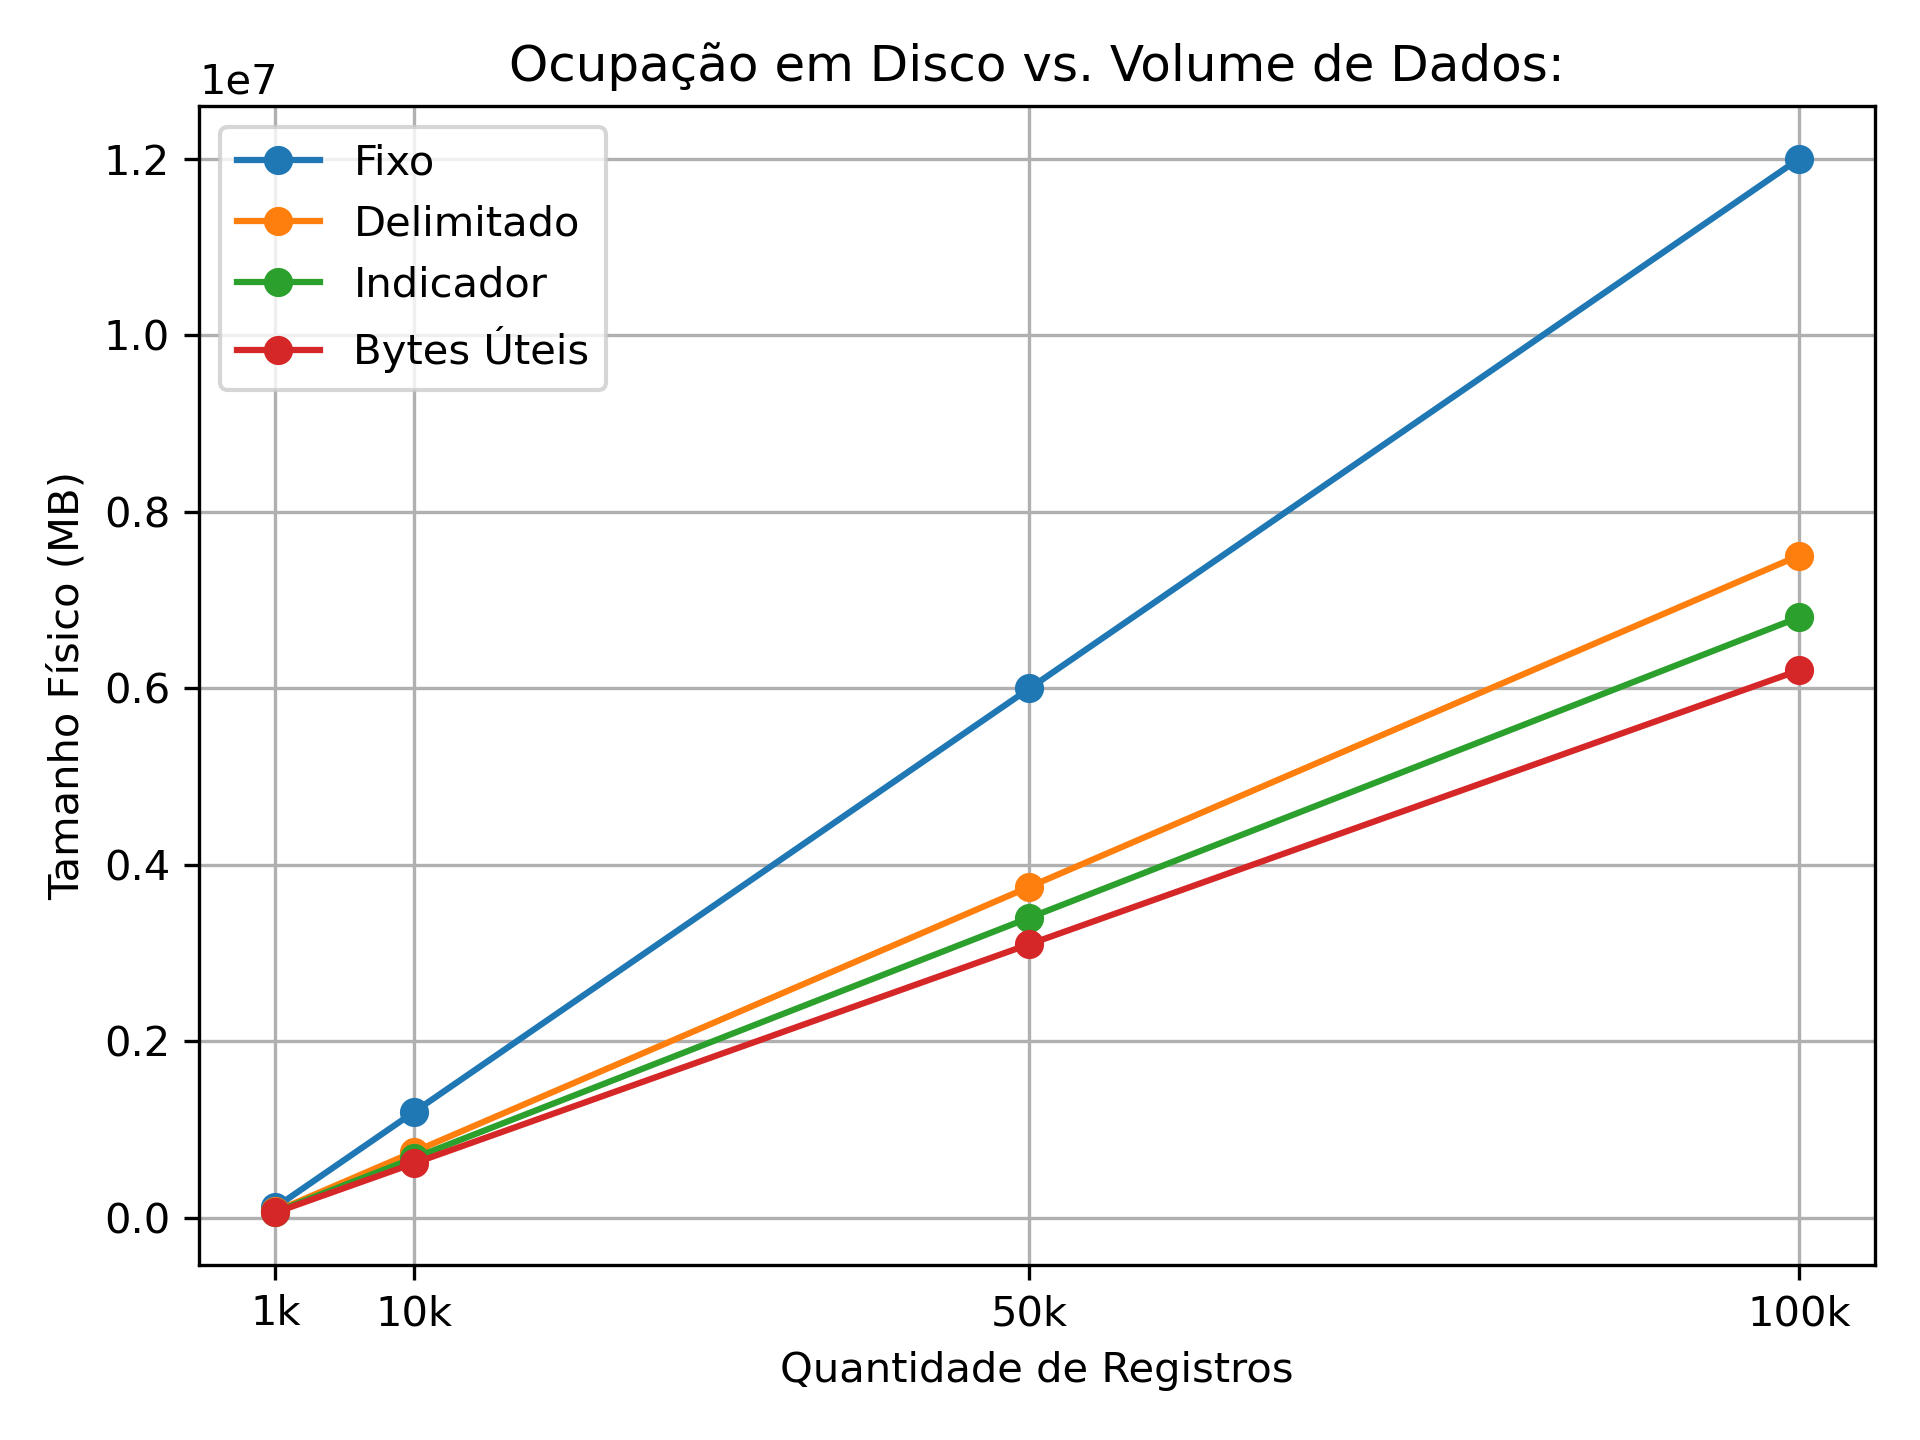
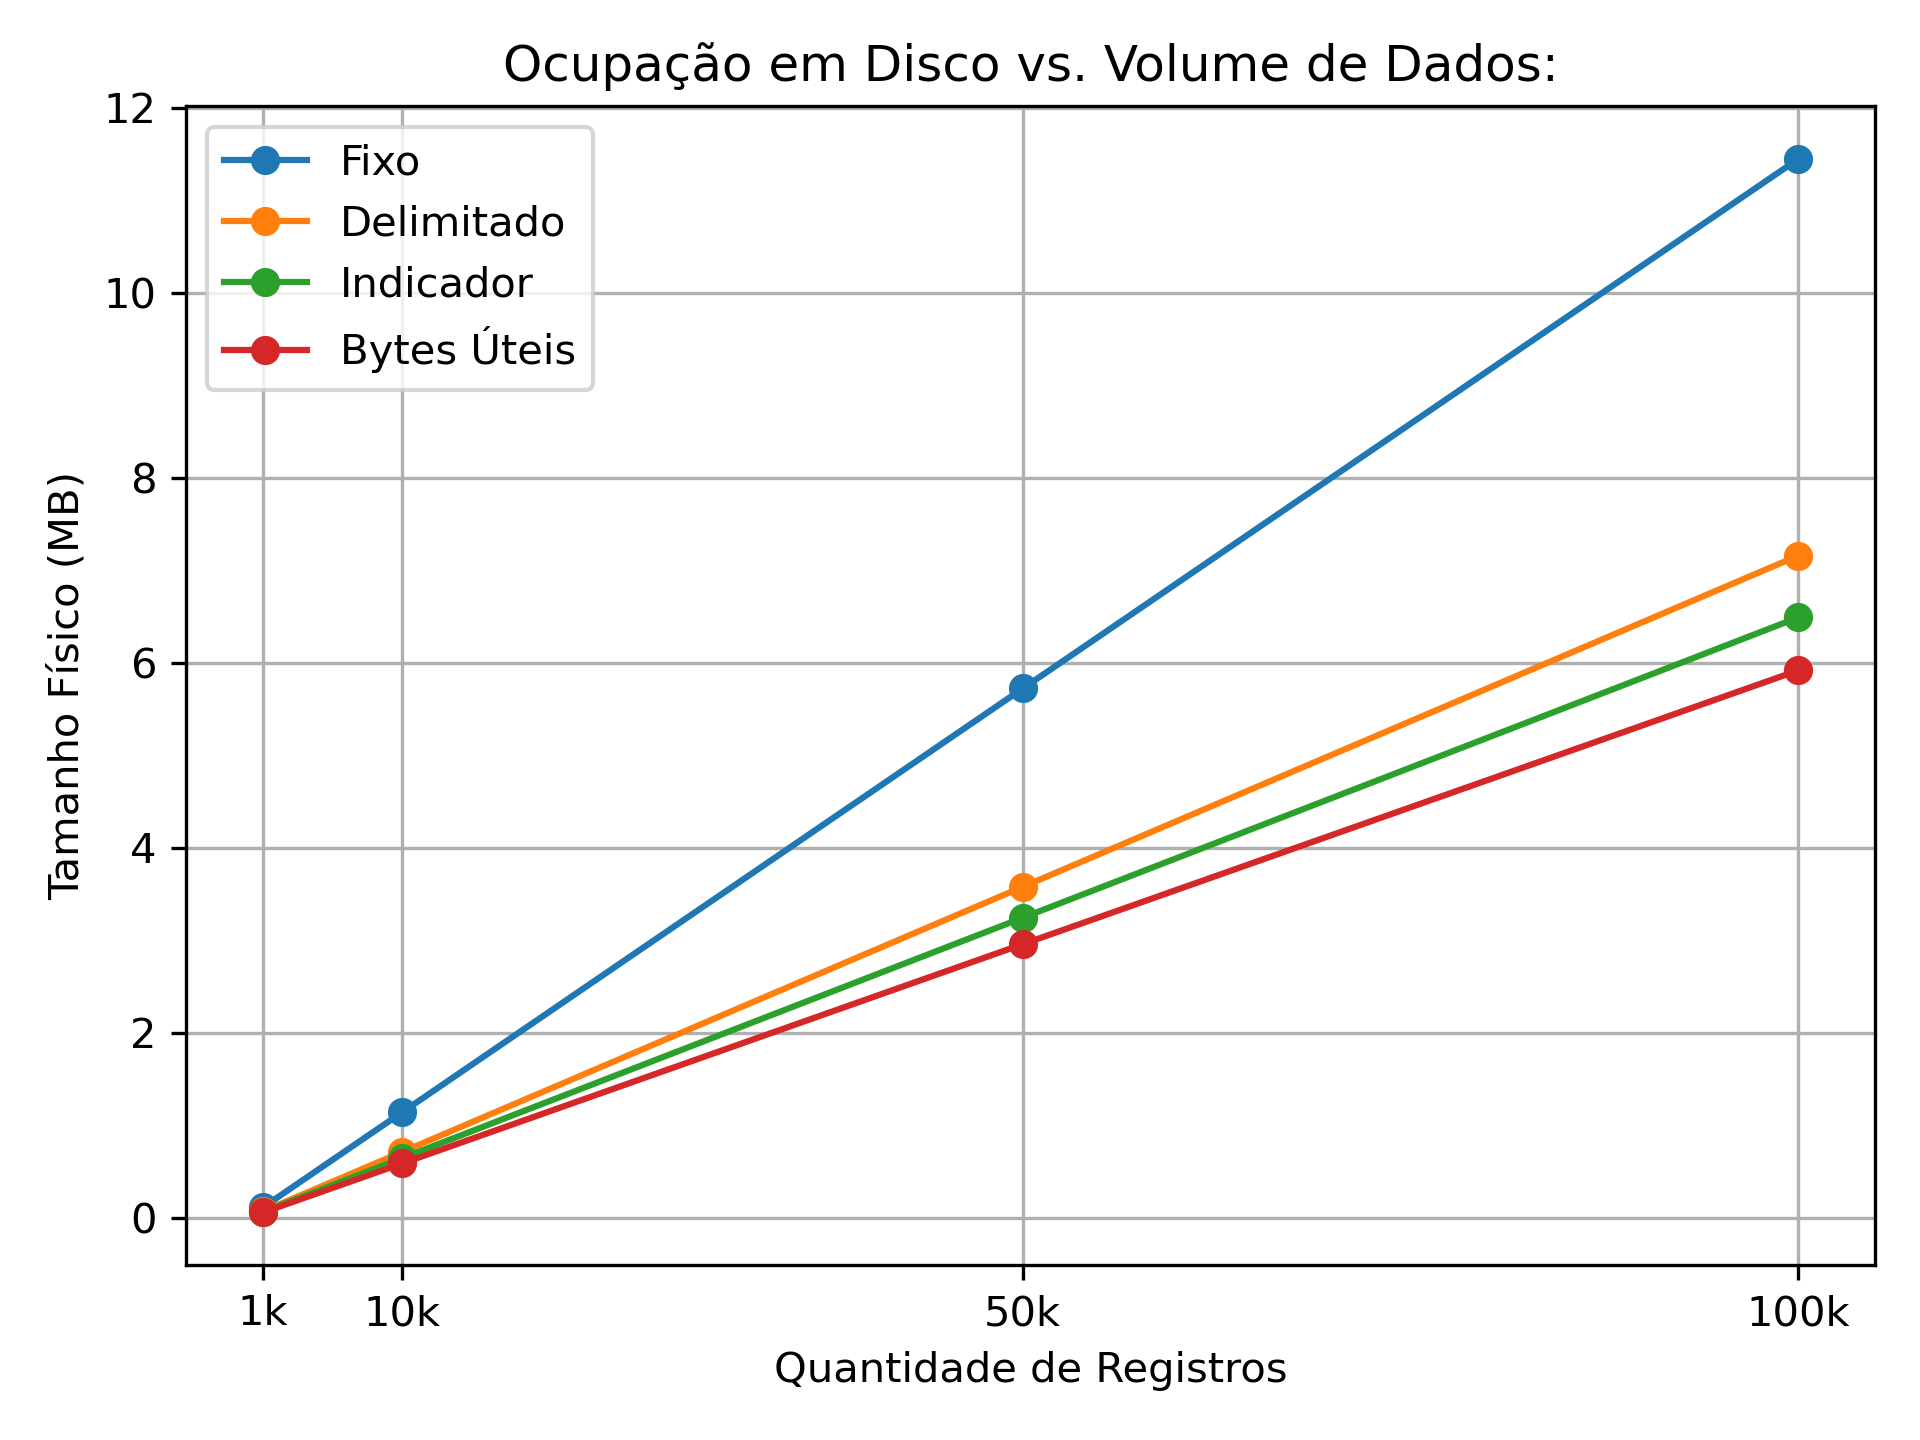
Correção de erros

diff --git a/gerar_graficos.py b/gerar_graficos.py
@@ -70,15 +70,15 @@ for formato in ["Fixo", "Delimitado", "Indicador"]:
 
     plt.plot(
         dados["N"],
-        dados["TamanhoDisco"],
+        dados["TamanhoDiscoMB"],
         marker="o",
         label=formato
     )
 
-dados_uteis = metricas.drop_duplicates("N")
+dados_uteis = metricas.drop_duplicates("N").sort_values("N")
 plt.plot(
         dados_uteis["N"],
-    dados_uteis["BytesUteis"],
+    dados_uteis["BytesUteisMB"],
     marker="o",
     label="Bytes Úteis"
     )
@@ -121,7 +121,7 @@ plt.bar(
 
 plt.xlabel("Formato")
 plt.ylabel("Composição do Arquivo (%)")
-plt.title("Ocupação em Disco vs. Volume de Dados:")
+plt.title("Eficiência de Armazenamento e Fragmentação Interna (%):")
 plt.ylim(0, 100)
 plt.legend()
 plt.grid(axis="y")
